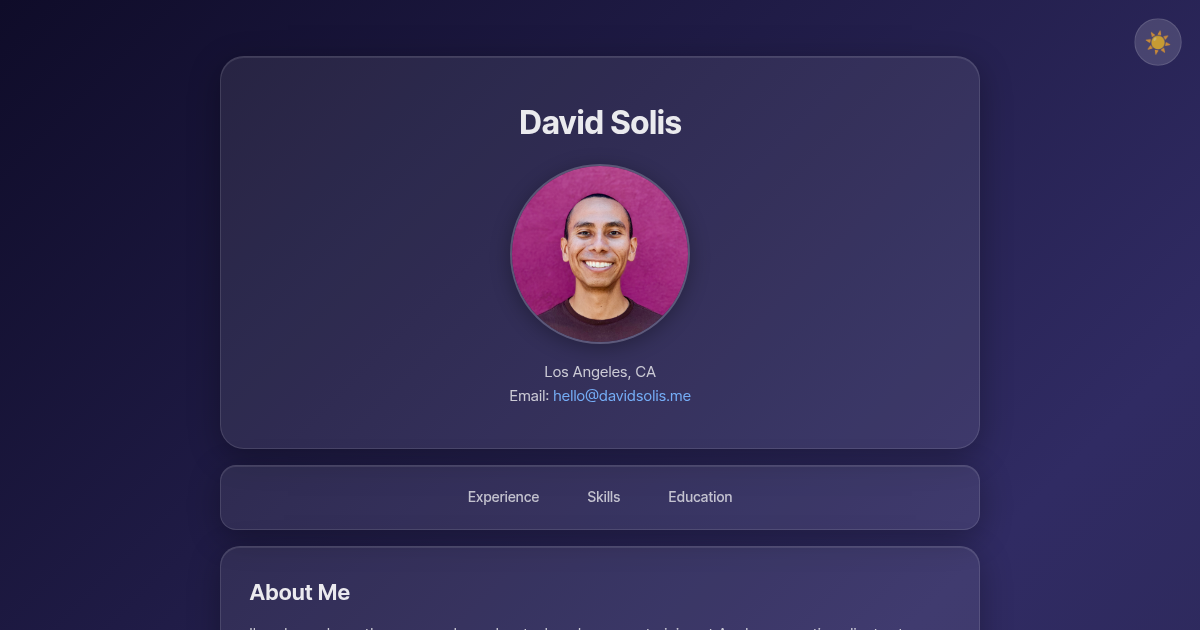
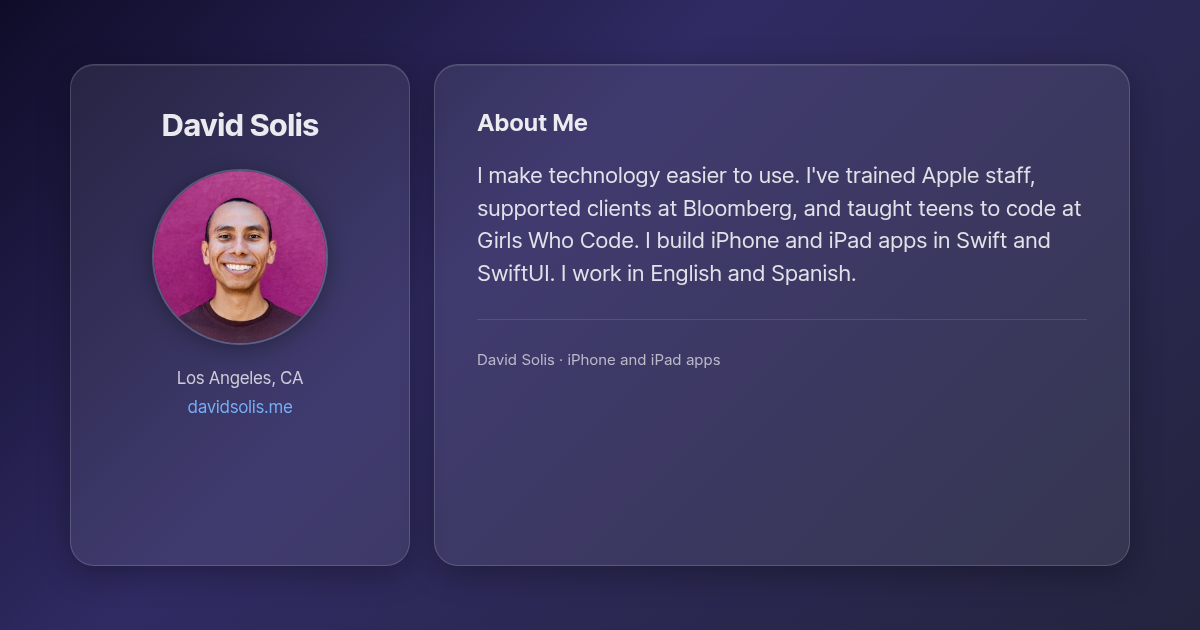
Update About Me with clear, evidence-led copy (#25)

diff --git a/components/AboutMe.js b/components/AboutMe.js
@@ -5,10 +5,9 @@ export default function AboutMe() {
     <section id="about-me" className={styles.card}>
       <h2>About Me</h2>
       <p>
-        I've always been the person who makes tech make sense: training at
-        Apple, supporting clients at Bloomberg, teaching teens to code at Girls
-        Who Code. Now that AI turns clear descriptions into working software,
-        that same skill builds apps. I write Swift and think in English and
+        I make technology easier to use. I've trained Apple staff, supported
+        clients at Bloomberg, and taught teens to code at Girls Who Code. I
+        build iPhone and iPad apps in Swift and SwiftUI. I work in English and
         Spanish.
       </p>
     </section>

diff --git a/pages/_document.js b/pages/_document.js
@@ -8,7 +8,7 @@ export default function Document() {
   const meta = {
     title: 'David Solis',
     description:
-      'Making tech make sense through training, client support, and teaching code. Now building apps in Swift, in English and Spanish.',
+      'I make technology easier to use. I trained Apple staff, supported Bloomberg clients, and taught teens to code. I build iPhone and iPad apps in Swift and SwiftUI.',
     url: 'https://www.davidsolis.me/',
     image: 'https://www.davidsolis.me/images/webpage.png'
   }

diff --git a/pages/index.js b/pages/index.js
@@ -16,7 +16,7 @@ export default function Home() {
         <title>David Solis</title>
         <meta
           name="description"
-          content="Making tech make sense through training, client support, and teaching code. Now building apps in Swift, in English and Spanish."
+          content="I make technology easier to use. I trained Apple staff, supported Bloomberg clients, and taught teens to code. I build iPhone and iPad apps in Swift and SwiftUI."
         />
       </Head>
 

diff --git a/README.md b/README.md
@@ -28,7 +28,7 @@ To check a production build locally, run `npm run build` and then `npm run start
 - `pages/index.js` assembles the home page and sets its page title and one description tag.
 - `components/Header.js`, `AboutMe.js`, `Experience.js`, `Skills.js`, `Education.js`, `Nav.js`, `Footer.js`, and `ThemeToggle.js` hold the visible sections and navigation. Their CSS modules and `pages/index.module.css` control the layout.
 - `pages/_document.js` sets document-level metadata and the Open Graph share image. If you change the description, check both this file and `pages/index.js` so they stay consistent.
-- `public/images/webpage.png` is the 1200 x 630 share-preview image. To update it, capture the live home page at a 1200 x 630 desktop viewport in dark mode, with the same framing as the current preview, at the very top of the page, then replace this file. Check the saved PNG visually before committing. The image is selected by `og:image` in `pages/_document.js`.
+- `public/images/webpage.png` is the 1200 x 630 share-preview image. To update it, render a new 1200 x 630 image in the site's dark purple style with the current About copy, inspect the saved PNG, and point `og:image` in `pages/_document.js` to it.
 - Other images and icons live under `public/`.
 
 The old Nextra starter instructions do not apply to this site. It does not use Markdown posts or an RSS feed.
